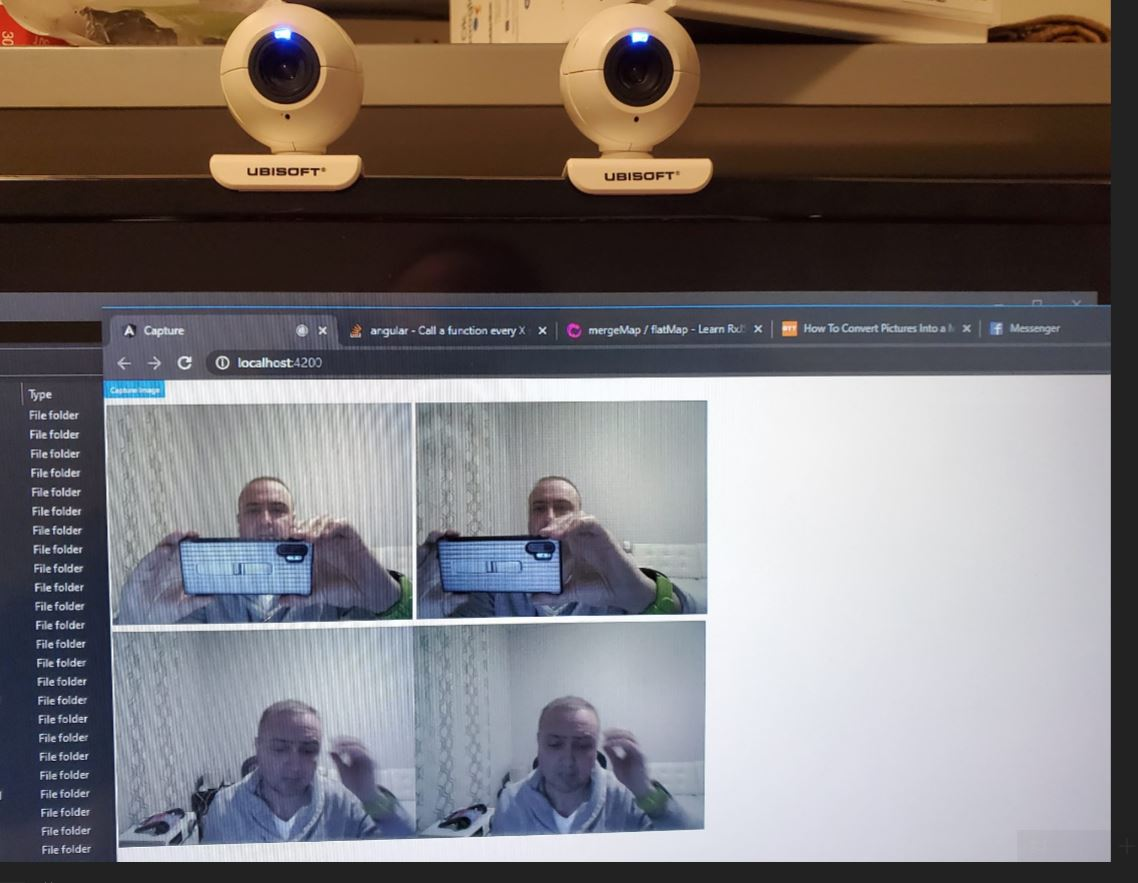
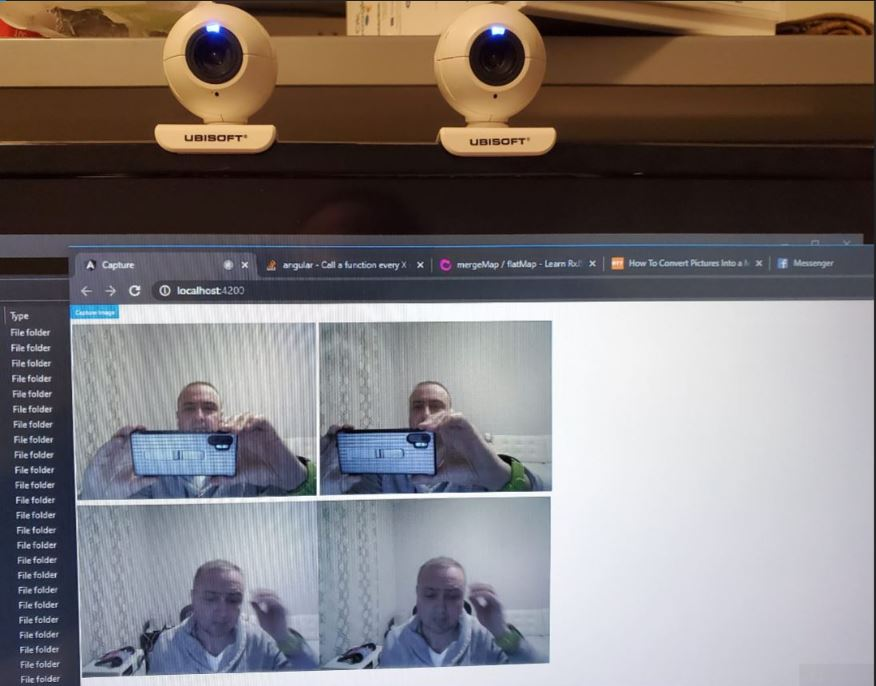
more resizing

diff --git a/README.md b/README.md
@@ -4,7 +4,7 @@ Final video here https://youtu.be/_5pMgoWXqbU
 
 ![Captures a set of images from two webcams](https://github.com/danmincu/AngularCameraExperiments/blob/master/Capture.JPG)
 
-
+![The setup](https://raw.githubusercontent.com/danmincu/AngularCameraExperiments/master/demo.jpg)
 
 # Capture
 
